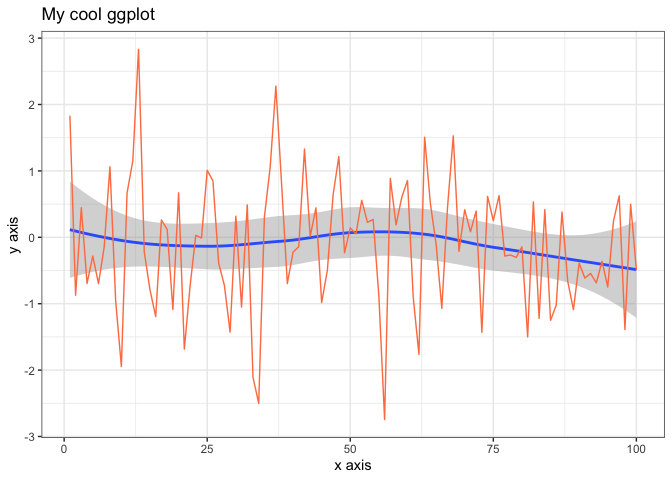
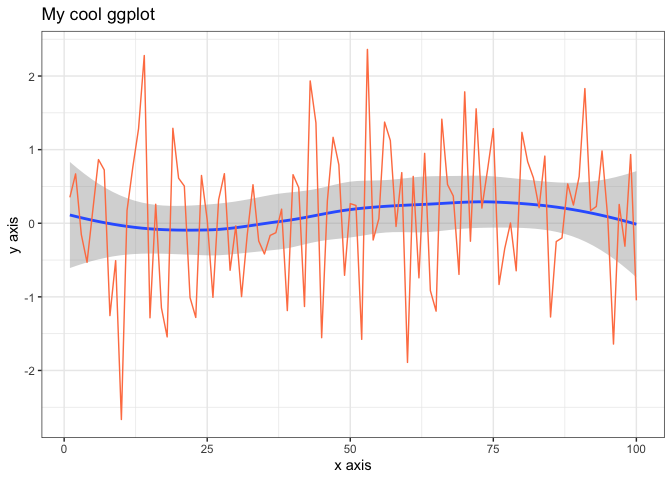
fix examples for ggplot2 alignment air formatting

diff --git a/README.md b/README.md
@@ -1,5 +1,6 @@
 
 <!-- badges: start -->
+
 [![R-CMD-check](https://github.com/jonocarroll/ggghost/actions/workflows/R-CMD-check.yaml/badge.svg)](https://github.com/jonocarroll/ggghost/actions/workflows/R-CMD-check.yaml)
 <!-- badges: end -->
 
@@ -54,12 +55,12 @@ call with each logical call on a new line (@hrbrmstr style)
 tmpdata <- data.frame(x = 1:100, y = rnorm(100))
 head(tmpdata)
 #>   x          y
-#> 1 1  1.8318017
-#> 2 2 -0.8719125
-#> 3 3  0.4451759
-#> 4 4 -0.6943876
-#> 5 5 -0.2814022
-#> 6 6 -0.6976087
+#> 1 1  0.3520107
+#> 2 2  0.6707094
+#> 3 3 -0.1543823
+#> 4 4 -0.5308320
+#> 5 5  0.1707965
+#> 6 6  0.8649948
 ```
 
 ``` r
@@ -135,20 +136,21 @@ z2 - geom_point()
 ![](README_supp/README-unnamed-chunk-10-1.png)<!-- -->
 
 Calls are removed based on matching to the regex `\\(.*$` (from the
-first bracket to the end of the call), so arguments are irrelevant.
+first bracket to the end of the call), so arguments are irrelevant. The
+possible matches can be found with `summary(z)` as above
 
 The object still generates all the `grob` info, it’s just stored as
 calls rather than a completed image.
 
 ``` r
 str(print(z))
-#> List of 11
-#>  $ data       :'data.frame': 100 obs. of  2 variables:
-#>   ..$ x: int [1:100] 1 2 3 4 5 6 7 8 9 10 ...
-#>   ..$ y: num [1:100] 1.832 -0.872 0.445 -0.694 -0.281 ...
-#>  $ layers     :List of 2
+#> <ggplot2::ggplot>
+#>  @ data       :'data.frame': 100 obs. of  2 variables:
+#>  .. $ x: int  1 2 3 4 5 6 7 8 9 10 ...
+#>  .. $ y: num  0.352 0.671 -0.154 -0.531 0.171 ...
+#>  @ layers     :List of 2
+#>  .. $ geom_point :Classes 'LayerInstance', 'Layer', 'ggproto', 'gg' <ggproto object: Class LayerInstance, Layer, gg>
 #> [... truncated ...]
-#>  - attr(*, "class")= chr [1:2] "gg" "ggplot"
 ```
 
 Since the `grob` info is still produced, normal `ggplot2` operators can
@@ -227,7 +229,7 @@ str(z)
 #>   ..$ data_name: chr "tmpdata"
 #>   ..$ data     :'data.frame':    100 obs. of  2 variables:
 #>   .. ..$ x: int [1:100] 1 2 3 4 5 6 7 8 9 10 ...
-#>   .. ..$ y: num [1:100] 1.832 -0.872 0.445 -0.694 -0.281 ...
+#>   .. ..$ y: num [1:100] 0.352 0.671 -0.154 -0.531 0.171 ...
 #>  - attr(*, "suppdata")=List of 2
 #>   ..$ supp_data_name: chr "myColors"
 #>   ..$ supp_data     : Named chr [1:3] "red" "blue" "green"
@@ -236,12 +238,12 @@ str(z)
 recover_data(z, supp = TRUE)
 head(tmpdata)
 #>   x          y
-#> 1 1  1.8318017
-#> 2 2 -0.8719125
-#> 3 3  0.4451759
-#> 4 4 -0.6943876
-#> 5 5 -0.2814022
-#> 6 6 -0.6976087
+#> 1 1  0.3520107
+#> 2 2  0.6707094
+#> 3 3 -0.1543823
+#> 4 4 -0.5308320
+#> 5 5  0.1707965
+#> 6 6  0.8649948
 
 myColors
 #>   alpha    beta   gamma 

diff --git a/NEWS.md b/NEWS.md
@@ -1,3 +1,8 @@
+# CHANGES in ggghost 0.2.3
+==========
+
+* align to new ggplot2 release (changed examples only)
+
 # CHANGES in ggghost 0.2.1
 ==========
 
